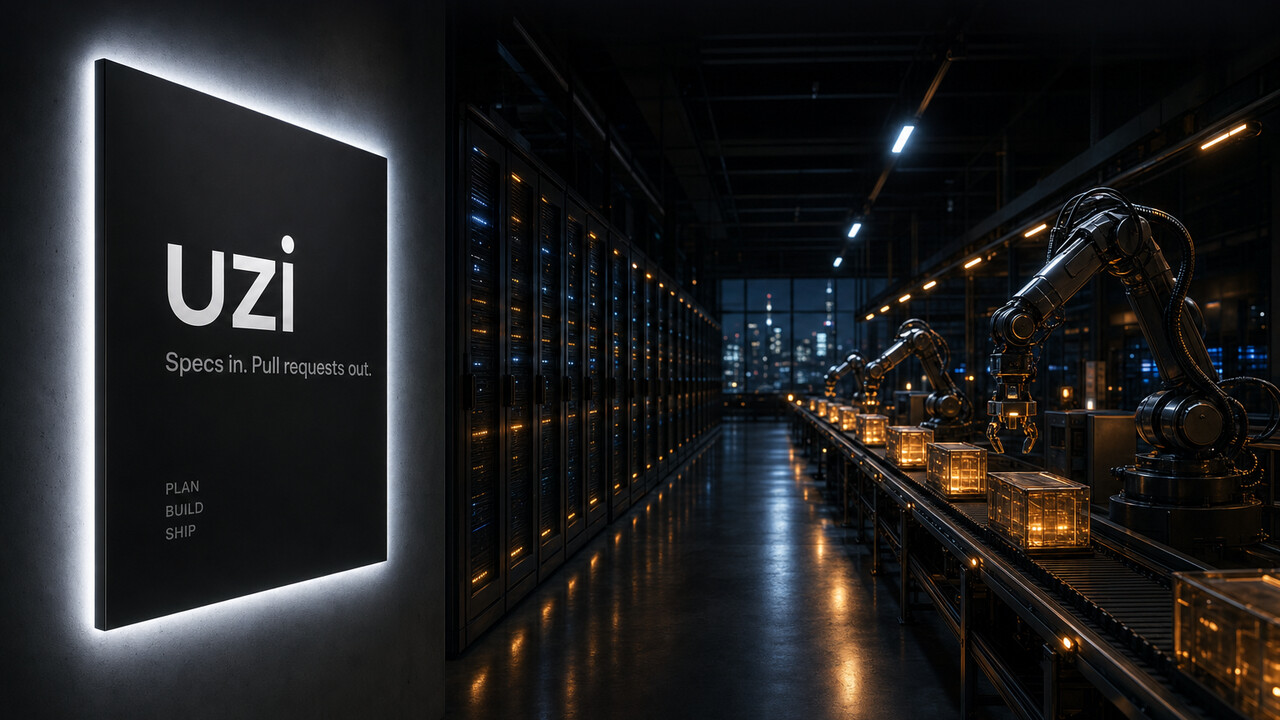
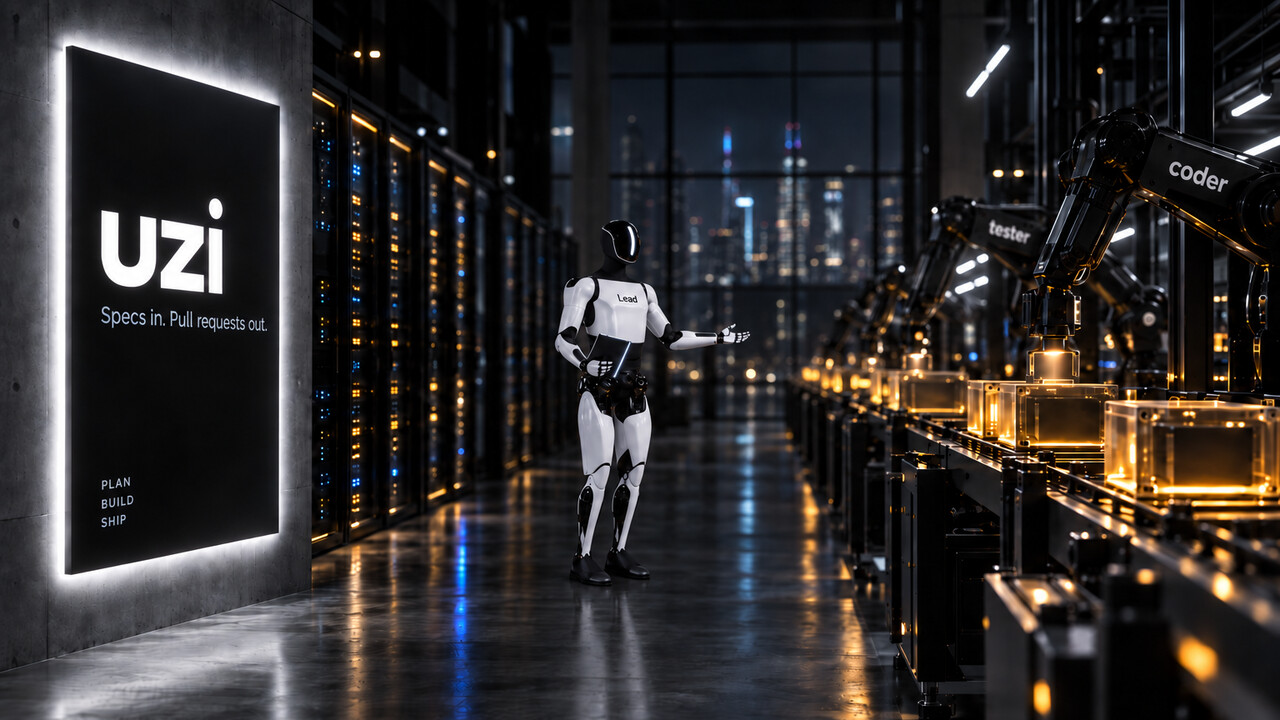
docs(readme): photoreal lead-robot hero [skip ci]

diff --git a/README.md b/README.md
@@ -11,7 +11,7 @@
 
 <p align="center">
   <img src=".github/readme/uzi-hero.jpg" width="640"
-       alt="A dark, unmanned factory corridor: a matte-black uzi sign reading 'Specs in. Pull requests out.' beside a row of server racks and a conveyor of robotic arms assembling glowing amber code crates, a night skyline at the far end">
+       alt="A dark factory corridor: a white-backlit uzi sign reading 'Specs in. Pull requests out.', a white humanoid robot labelled 'Lead' overseeing the floor with a tablet, and a conveyor of robotic arms assembling glowing amber code crates past a night skyline">
 </p>
 
 A **dark factory** runs with the lights off: no human on the floor. Machines take the raw input, do the work, and hand back a finished part. I built one for software. It is called **uzi** (Uzinele Întunecate, "dark factories"), and it is open source.
